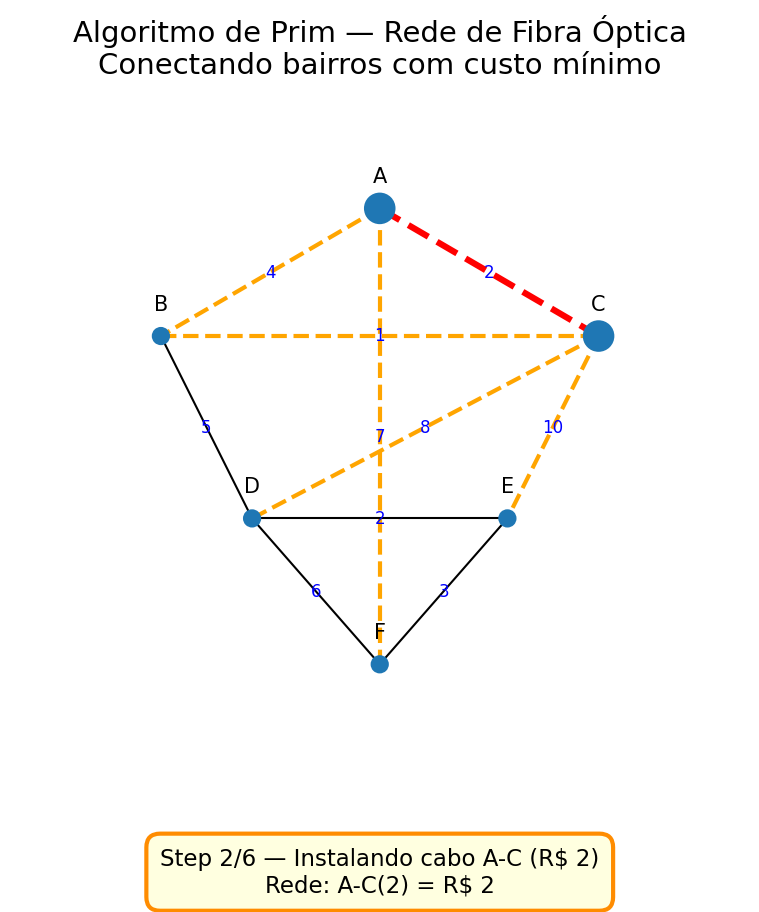
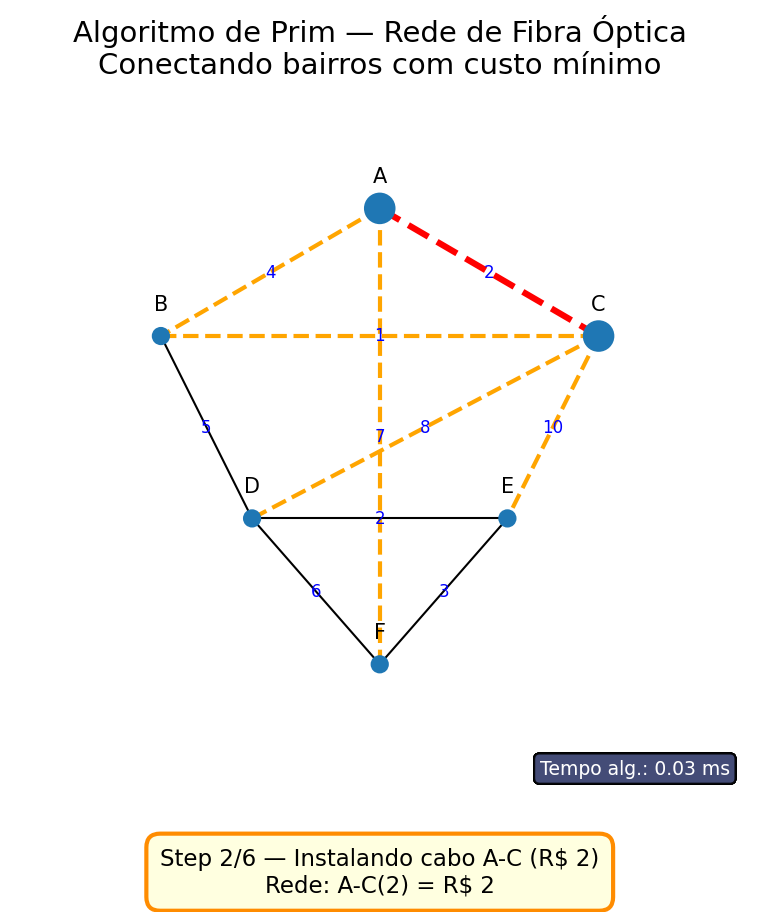
ajustes na main

Changed region(s): [[0.697, 0.7982, 0.9697, 0.8596]]

diff --git a/kruskal.py b/kruskal.py
@@ -2,6 +2,17 @@ import matplotlib.pyplot as plt
 import networkx as nx
 import os
 from matplotlib.animation import FuncAnimation, PillowWriter
+from time import perf_counter
+
+# Formatador adaptativo de tempo (igual lógica usada no Prim)
+def format_time(seconds: float) -> str:
+    if seconds < 1e-6:
+        return f"{seconds*1e9:.1f} ns"
+    if seconds < 1e-3:
+        return f"{seconds*1e6:.1f} µs"
+    if seconds < 1:
+        return f"{seconds*1e3:.2f} ms"
+    return f"{seconds:.4f} s"
 
 
 class UnionFind:
@@ -97,7 +108,7 @@ def draw_graph_step(G, pos, title, filename,
     plt.close()
 
 
-def create_kruskal_animation(G, pos, animation_steps, all_edges_for_drawing, interval_ms=2000):
+def create_kruskal_animation(G, pos, animation_steps, all_edges_for_drawing, interval_ms=2000, algo_time=None):
     """Cria a animação do algoritmo de Kruskal"""
     fig, ax = plt.subplots(figsize=(12, 9))
     ax.set_facecolor('#202B3B')
@@ -181,6 +192,10 @@ def create_kruskal_animation(G, pos, animation_steps, all_edges_for_drawing, int
         ax.text(0.5, 0.02, info_text, transform=ax.transAxes, ha='center', va='bottom',
                fontsize=14, color='white', weight='bold',
                bbox=dict(boxstyle="round,pad=0.6", facecolor="darkblue", alpha=0.8))
+        if algo_time is not None:
+            ax.text(0.98, 0.02, f"Tempo alg.: {format_time(algo_time)}", transform=ax.transAxes,
+                    ha='right', va='bottom', fontsize=12, color='white',
+                    bbox=dict(boxstyle="round,pad=0.3", facecolor="#444C77", alpha=0.85))
         
         return []
     
@@ -189,23 +204,22 @@ def create_kruskal_animation(G, pos, animation_steps, all_edges_for_drawing, int
     return fig, anim
 
 
-def save_kruskal_frames(fig, G, pos, animation_steps, all_edges_for_drawing, frames_dir):
-    """Salva frames individuais PNG"""
+def save_kruskal_frames(fig, G, pos, animation_steps, all_edges_for_drawing, frames_dir, algo_time=None):
+    """Salva cada frame da animação como imagem PNG, incluindo tempo do algoritmo se fornecido."""
     for i, step in enumerate(animation_steps):
-        plt.figure(figsize=(12, 9))
-        ax = plt.gca()
+        plt.clf()
+        ax = fig.add_subplot(111)
         ax.set_facecolor('#202B3B')
-        plt.gcf().patch.set_facecolor('#202B3B')
         ax.axis('off')
         
         # Título
-        plt.title(step['title'], fontsize=16, color='white', pad=20)
+        ax.set_title(step['title'], fontsize=16, color='white', pad=20)
         
         # Desenhar nós
-        nx.draw_networkx_nodes(G, pos, node_color='white', node_size=1000, edgecolors='gray')
-        nx.draw_networkx_labels(G, pos, font_size=12, font_weight='bold', font_color='black')
+        nx.draw_networkx_nodes(G, pos, ax=ax, node_color='white', node_size=1000, edgecolors='gray')
+        nx.draw_networkx_labels(G, pos, ax=ax, font_size=12, font_weight='bold', font_color='black')
         
-        # Desenhar arestas (mesmo código da animação)
+        # Desenhar arestas não selecionadas (cinza tracejado)
         mst_edge_tuples = [(u, v) for u, v, w in step['mst_edges']]
         eval_edge = step['evaluating_edge']
         reject_edge = step['rejected_edge']
@@ -218,61 +232,68 @@ def save_kruskal_frames(fig, G, pos, animation_steps, all_edges_for_drawing, fra
                 (u, v) != (reject_edge[:2] if reject_edge else (None, None)) and
                 (v, u) != (reject_edge[:2] if reject_edge else (None, None))):
                 
-                nx.draw_networkx_edges(G, pos, edgelist=[(u, v)], 
+                nx.draw_networkx_edges(G, pos, ax=ax, edgelist=[(u, v)], 
                                      edge_color='gray', width=1, style='dashed')
                 
+                # Peso da aresta
                 mid_x = (pos[u][0] + pos[v][0]) / 2
                 mid_y = (pos[u][1] + pos[v][1]) / 2
-                plt.text(mid_x, mid_y, str(data['weight']), color='gray', 
-                        fontsize=10, ha='center', va='center')
+                ax.text(mid_x, mid_y, str(data['weight']), color='gray', 
+                       fontsize=10, ha='center', va='center')
         
-        # Arestas da MST
+        # Desenhar arestas da MST (ciano)
         if step['mst_edges']:
             mst_edge_list = [(u, v) for u, v, w in step['mst_edges']]
-            nx.draw_networkx_edges(G, pos, edgelist=mst_edge_list, 
+            nx.draw_networkx_edges(G, pos, ax=ax, edgelist=mst_edge_list, 
                                  edge_color='#66FFFF', width=3)
             
+            # Pesos das arestas da MST
             for u, v, weight in step['mst_edges']:
                 mid_x = (pos[u][0] + pos[v][0]) / 2
                 mid_y = (pos[u][1] + pos[v][1]) / 2
-                plt.text(mid_x, mid_y, str(weight), color='#66FFFF', fontsize=12, 
-                        ha='center', va='center', weight='bold',
-                        bbox=dict(facecolor='#202B3B', edgecolor='none', boxstyle='round,pad=0.3'))
+                ax.text(mid_x, mid_y, str(weight), color='#66FFFF', fontsize=12, 
+                       ha='center', va='center', weight='bold',
+                       bbox=dict(facecolor='#202B3B', edgecolor='none', boxstyle='round,pad=0.3'))
         
-        # Aresta sendo avaliada
+        # Desenhar aresta sendo avaliada (amarelo)
         if eval_edge:
             u, v, weight = eval_edge
-            nx.draw_networkx_edges(G, pos, edgelist=[(u, v)], 
+            nx.draw_networkx_edges(G, pos, ax=ax, edgelist=[(u, v)], 
                                  edge_color='yellow', width=4)
             mid_x = (pos[u][0] + pos[v][0]) / 2
             mid_y = (pos[u][1] + pos[v][1]) / 2
-            plt.text(mid_x, mid_y, str(weight), color='yellow', fontsize=12, 
-                    ha='center', va='center', weight='bold',
-                    bbox=dict(facecolor='#202B3B', edgecolor='none', boxstyle='round,pad=0.3'))
+            ax.text(mid_x, mid_y, str(weight), color='yellow', fontsize=12, 
+                   ha='center', va='center', weight='bold',
+                   bbox=dict(facecolor='#202B3B', edgecolor='none', boxstyle='round,pad=0.3'))
         
-        # Aresta rejeitada
+        # Desenhar aresta rejeitada (vermelho tracejado)
         if reject_edge:
             u, v, weight = reject_edge
-            nx.draw_networkx_edges(G, pos, edgelist=[(u, v)], 
+            nx.draw_networkx_edges(G, pos, ax=ax, edgelist=[(u, v)], 
                                  edge_color='red', width=3, style='dashed')
             mid_x = (pos[u][0] + pos[v][0]) / 2
             mid_y = (pos[u][1] + pos[v][1]) / 2
-            plt.text(mid_x, mid_y, str(weight), color='red', fontsize=12, 
-                    ha='center', va='center', weight='bold',
-                    bbox=dict(facecolor='#202B3B', edgecolor='none', boxstyle='round,pad=0.3'))
+            ax.text(mid_x, mid_y, str(weight), color='red', fontsize=12, 
+                   ha='center', va='center', weight='bold',
+                   bbox=dict(facecolor='#202B3B', edgecolor='none', boxstyle='round,pad=0.3'))
         
         # Informação de custo
         info_text = f"Custo atual da MST: R$ {step['mst_cost']}"
-        plt.text(0.5, 0.02, info_text, transform=plt.gca().transAxes, ha='center', va='bottom',
-                fontsize=14, color='white', weight='bold',
-                bbox=dict(boxstyle="round,pad=0.6", facecolor="darkblue", alpha=0.8))
+        ax.text(0.5, 0.02, info_text, transform=ax.transAxes, ha='center', va='bottom',
+               fontsize=14, color='white', weight='bold',
+               bbox=dict(boxstyle="round,pad=0.6", facecolor="darkblue", alpha=0.8))
+        if algo_time is not None:
+            ax.text(0.98, 0.02, f"Tempo alg.: {format_time(algo_time)}", transform=ax.transAxes,
+                    ha='right', va='bottom', fontsize=12, color='white',
+                    bbox=dict(boxstyle="round,pad=0.3", facecolor="#444C77", alpha=0.85))
         
-        plt.savefig(os.path.join(frames_dir, f"frame_{i+1:02d}.png"), 
-                   facecolor='#202B3B', dpi=150, bbox_inches='tight')
-        plt.close()
+        frame_path = os.path.join(frames_dir, f"frame_{i:03d}.png")
+        plt.savefig(frame_path, dpi=100, bbox_inches='tight')
+    plt.close(fig)
 
 
 def kruskal_com_visualizacao(raw_graph_data):
+    start_total = perf_counter()
     # Criar diretório para os outputs
     out_dir = os.path.join(os.getcwd(), "kruskal_outputs")
     frames_dir = os.path.join(out_dir, "frames")
@@ -325,6 +346,7 @@ def kruskal_com_visualizacao(raw_graph_data):
 
     print("Avaliando cada aresta para adicionar à Árvore Geradora Mínima (AGM)...")
     
+    algo_start = perf_counter()
     for weight, u, v in sorted_edges:
         print(f"\n[{step_counter}] Avaliando aresta: '{u}' - '{v}' com custo {weight}")
         
@@ -382,10 +404,11 @@ def kruskal_com_visualizacao(raw_graph_data):
         'step_counter': step_counter,
         'mst_cost': mst_cost
     })
+    algo_elapsed = perf_counter() - algo_start
 
     # Criar animação
     print("\nGerando animação...")
-    fig, anim = create_kruskal_animation(G, pos, animation_steps, all_edges_for_drawing)
+    fig, anim = create_kruskal_animation(G, pos, animation_steps, all_edges_for_drawing, algo_time=algo_elapsed)
     
     # Salvar GIF
     gif_path = os.path.join(out_dir, "kruskal_animation.gif")
@@ -395,9 +418,12 @@ def kruskal_com_visualizacao(raw_graph_data):
     
     # Salvar frames individuais
     print("Salvando frames PNG...")
-    save_kruskal_frames(fig, G, pos, animation_steps, all_edges_for_drawing, frames_dir)
+    save_kruskal_frames(fig, G, pos, animation_steps, all_edges_for_drawing, frames_dir, algo_time=algo_elapsed)
     print(f"Frames salvos em: {frames_dir}")
 
+    total_elapsed = perf_counter() - start_total
+    print(f"Tempo (apenas algoritmo Kruskal): {format_time(algo_elapsed)}")
+    print(f"Tempo total (inclui geração de GIF e frames): {format_time(total_elapsed)}")
     print("\n--- RESULTADO FINAL ---")
     print("A Árvore Geradora Mínima é composta pelas seguintes conexões:")
     for u, v, weight in mst_edges:
@@ -410,7 +436,7 @@ def kruskal_com_visualizacao(raw_graph_data):
     print(f" - GIF: {gif_path}")
     print(f" - Frames PNG: {frames_dir}")
 
-    return mst_edges, mst_cost
+    return mst_edges, mst_cost, algo_elapsed, total_elapsed
 
 
 
@@ -432,4 +458,5 @@ print("Problema: Conectar todos os bairros com custo mínimo")
 print("Algoritmo: Kruskal (ordena arestas e evita ciclos)")
 print("="*60)
 
-minimum_spanning_tree, total_cost = kruskal_com_visualizacao(network_graph)
+minimum_spanning_tree, total_cost, algo_time, total_time = kruskal_com_visualizacao(network_graph)
+print(f"\nResumo de tempos:\n - Tempo algoritmo (Kruskal): {format_time(algo_time)}\n - Tempo total (com visualizações): {format_time(total_time)}")

diff --git a/algoritmo_de_prim.py b/algoritmo_de_prim.py
@@ -2,6 +2,13 @@ import heapq
 import os
 import matplotlib.pyplot as plt
 from matplotlib.animation import FuncAnimation, PillowWriter
+from time import perf_counter  # adicionado para medir tempo
+
+# Ajustado: sempre exibir em ms quando < 1s para consistência visual
+def format_time(seconds: float) -> str:
+    if seconds < 1:
+        return f"{seconds*1000:.2f} ms"
+    return f"{seconds:.4f} s"
 
 # Problema: Empresa de internet conectando bairros com fibra óptica
 # Nós = Bairros da cidade
@@ -74,7 +81,7 @@ def prim_steps(graph, start=0):
     return steps
 
 # GIF
-def build_animation(steps, nodes, pos, unique_edges, interval_ms=1500):
+def build_animation(steps, nodes, pos, unique_edges, interval_ms=1500, algo_time=None):
     fig, ax = plt.subplots(figsize=(8, 6))
     ax.set_aspect('equal')
     ax.axis('off')
@@ -144,6 +151,10 @@ def build_animation(steps, nodes, pos, unique_edges, interval_ms=1500):
             cost_msg = f"Rede: {' + '.join(edges_detail)} = R$ {total}"
 
         info_text.set_text(msg + "\n" + cost_msg)
+        if algo_time is not None:
+            ax.text(0.98, 0.02, f"Tempo alg.: {format_time(algo_time)}", transform=ax.transAxes,
+                    ha='right', va='bottom', fontsize=9, color='white',
+                    bbox=dict(boxstyle="round,pad=0.3", facecolor="#444C77", alpha=0.85))
         return []
 
     anim = FuncAnimation(fig, update, frames=len(steps),
@@ -156,8 +167,10 @@ def main():
     frames_dir = os.path.join(out_dir, "frames")
     os.makedirs(frames_dir, exist_ok=True)
 
+    start_algo = perf_counter()
     steps = prim_steps(graph, start=0)
-    fig, anim = build_animation(steps, nodes, pos, unique_edges)
+    algo_elapsed = perf_counter() - start_algo
+    fig, anim = build_animation(steps, nodes, pos, unique_edges, algo_time=algo_elapsed)
 
     gif_path = os.path.join(out_dir, "prim_animation.gif")
     print("Gerando GIF...")
@@ -179,6 +192,7 @@ def main():
         save_frame(i)
     
     print("Frames salvos em:", frames_dir)
+    print(f"Tempo (apenas algoritmo Prim): {format_time(algo_elapsed)}")
 
 if __name__ == "__main__":
     main()
